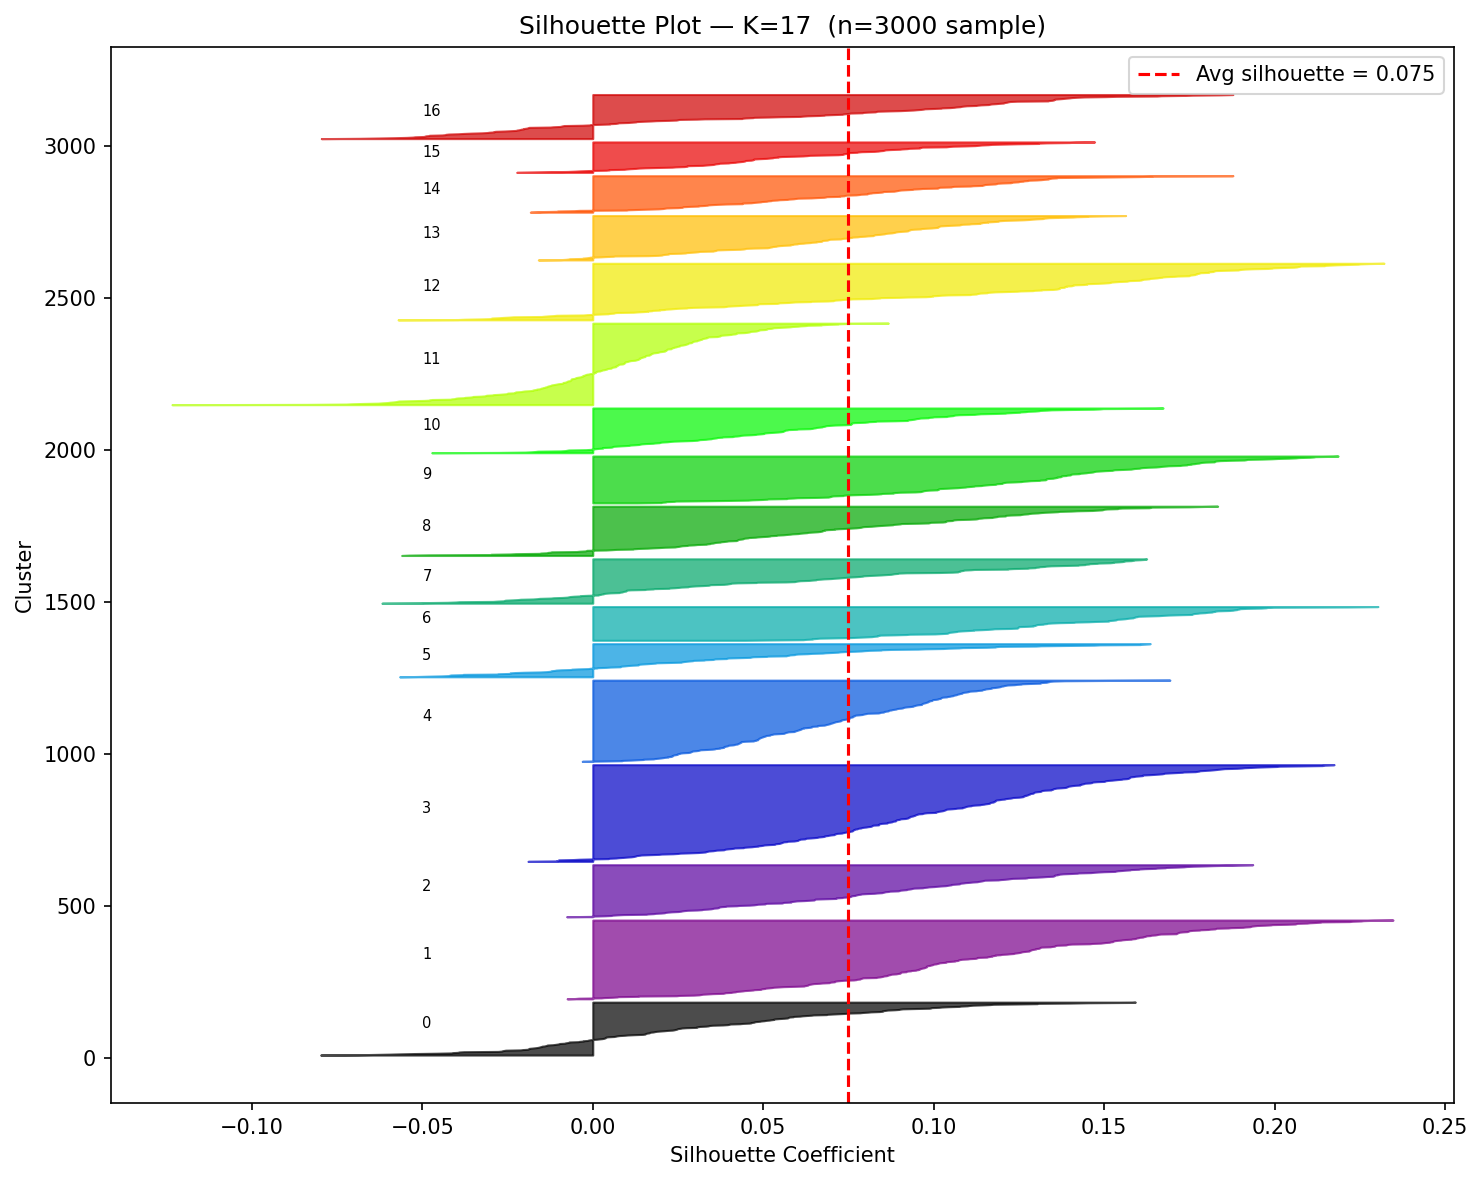
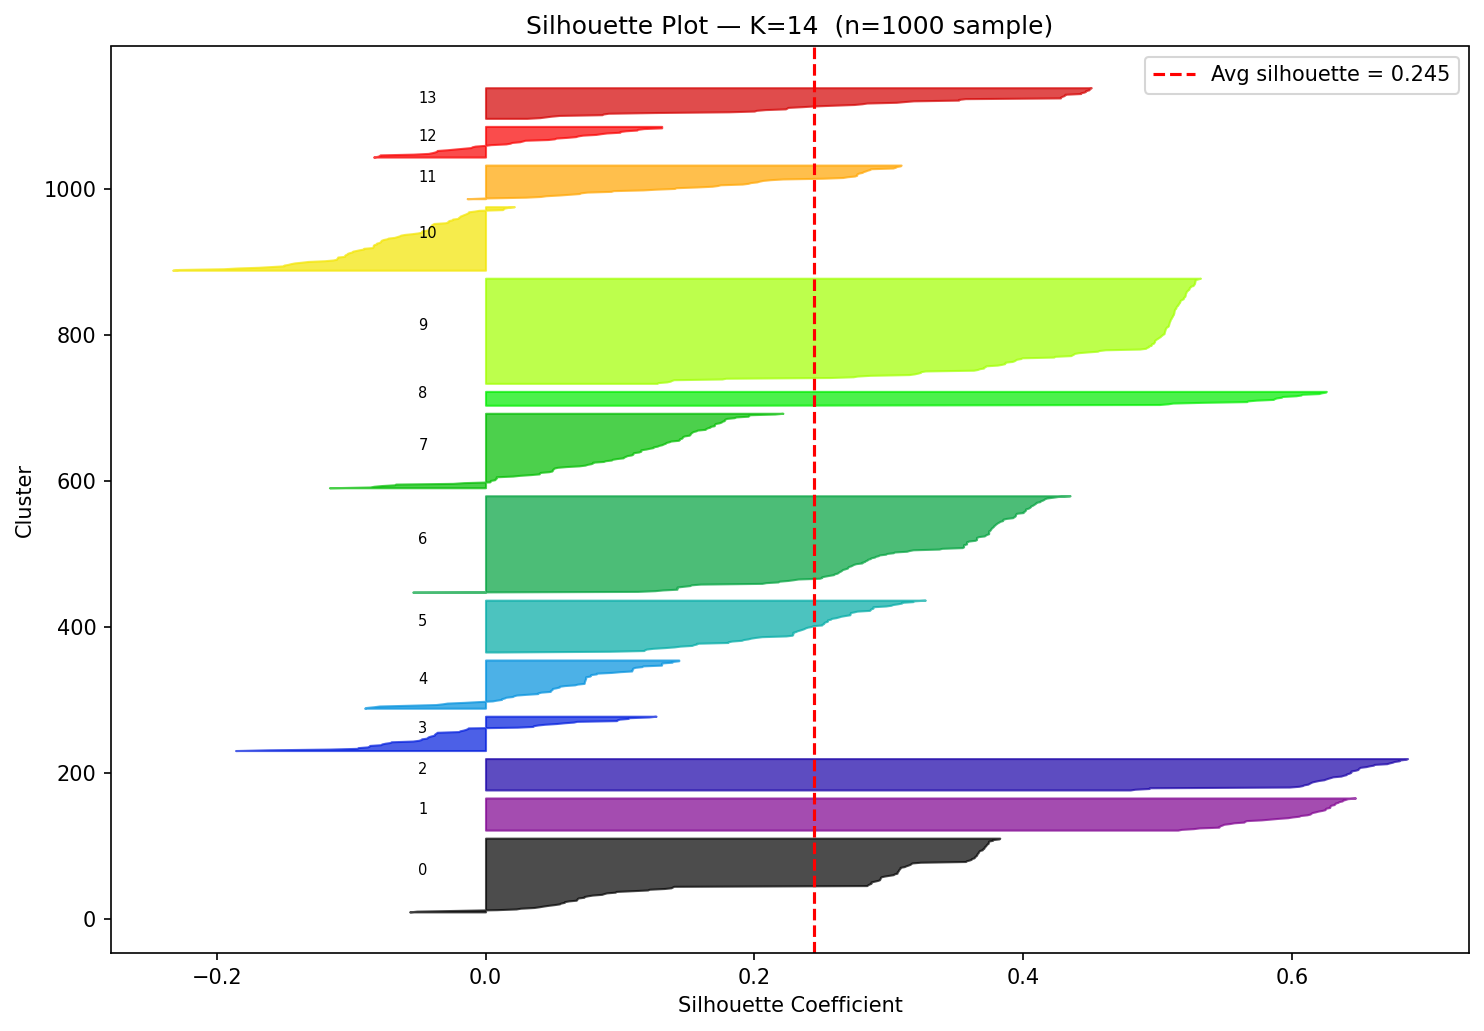
fix clustering_metric to take arg for keywords, clusters.csv, embeding, silhouete oputput, output json file, and and update results figuresh

diff --git a/src/clustering/clustering_metrics.py b/src/clustering/clustering_metrics.py
@@ -268,9 +268,12 @@ def plot_silhouette(
 
 if __name__ == "__main__":
     import argparse
-    from src.utils.config_loader import load_config
+    from src.utils.config_loader import load_config, keyword_paths
 
     parser = argparse.ArgumentParser(description="Compute clustering quality metrics")
+    parser.add_argument(
+        "--keyword", default=None, help="Keyword to compute metrics for (uses config paths)"
+    )
     parser.add_argument(
         "--embeddings", default=None, help="Path to product_embeddings.npy"
     )
@@ -290,10 +293,21 @@ if __name__ == "__main__":
     args = parser.parse_args()
 
     config = load_config()
-    path_cfg = config["paths"]
 
-    emb_path = args.embeddings or path_cfg["embeddings_npy"]
-    csv_path = args.clusters_csv or path_cfg["clusters_csv"]
+    if args.keyword:
+        # Use keyword-specific paths from config
+        paths = keyword_paths(args.keyword, config)
+        emb_path = str(paths["embeddings_npy"])
+        csv_path = str(paths["clusters_csv"])
+    else:
+        # Use provided paths or fall back to defaults (if they existed)
+        path_cfg = config["paths"]
+        emb_path = args.embeddings
+        csv_path = args.clusters_csv
+        if not emb_path:
+            raise ValueError("Must provide --embeddings path or --keyword")
+        if not csv_path:
+            raise ValueError("Must provide --clusters_csv path or --keyword")
 
     logger.info(f"Loading embeddings from {emb_path}")
     embs = np.load(emb_path)
